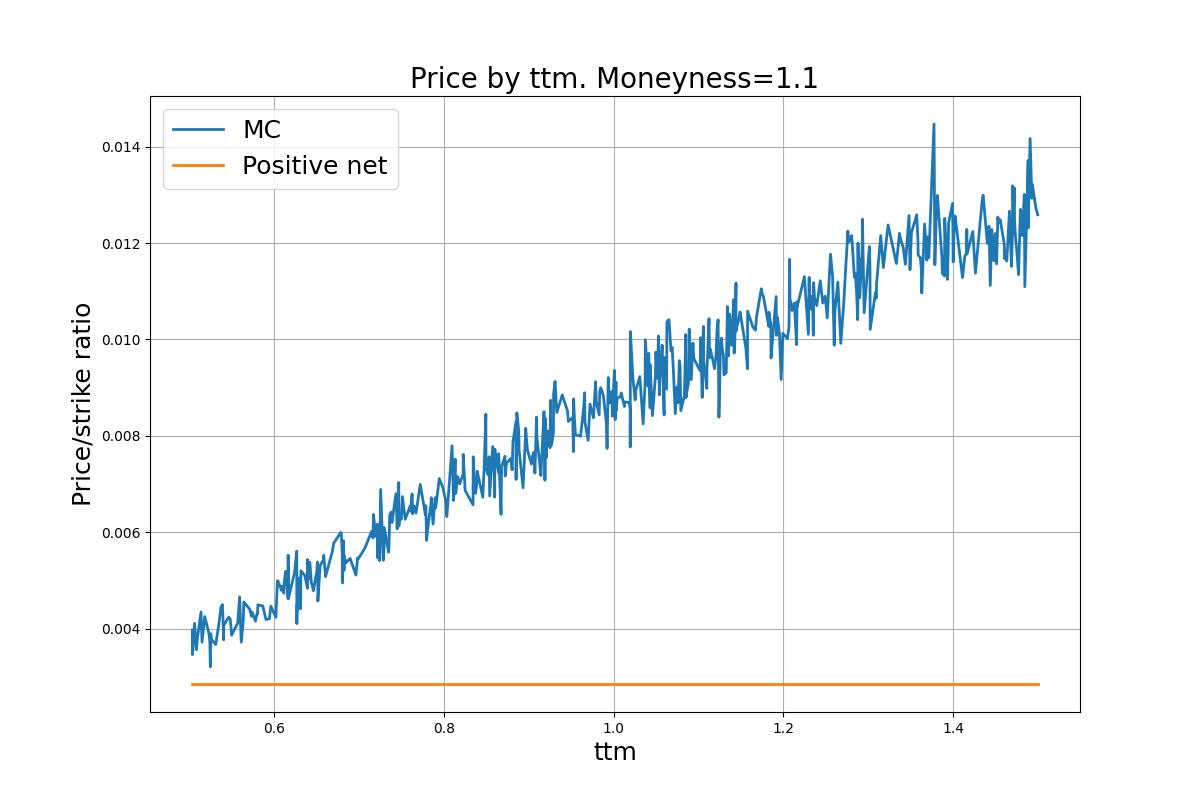
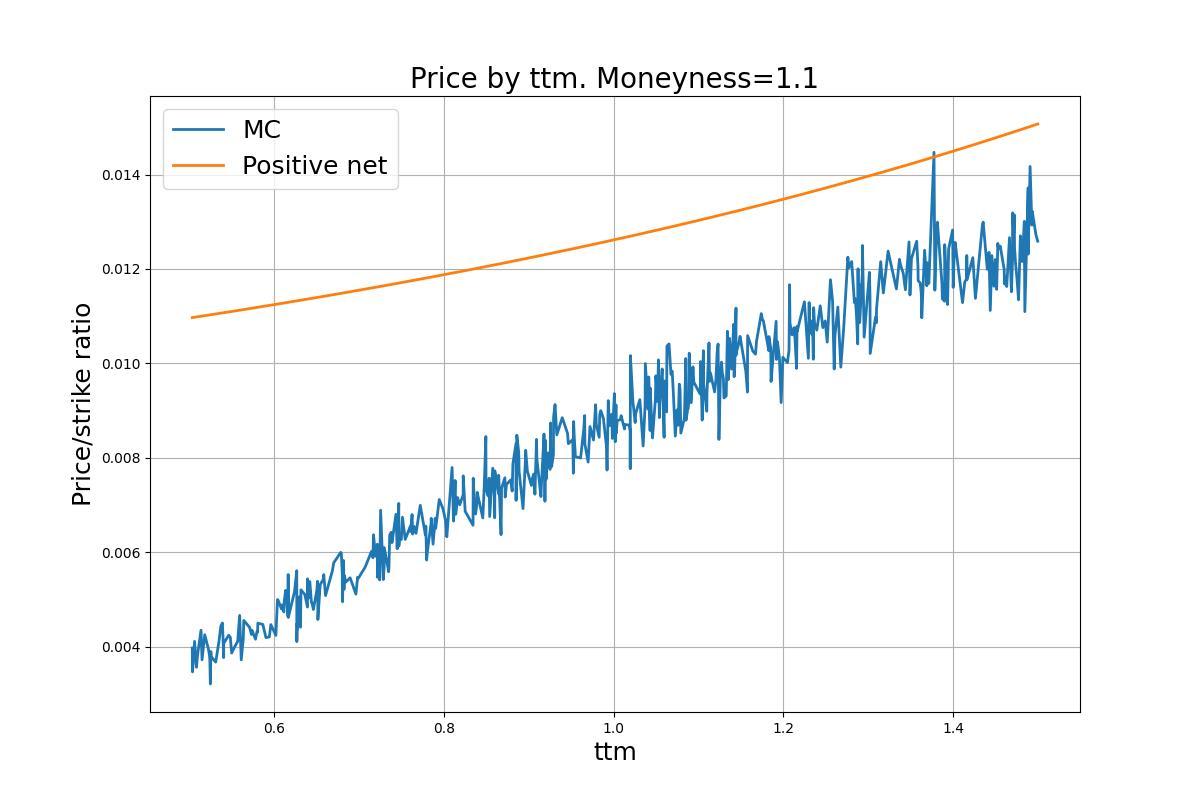
Fix right network, remove encoding for left part

diff --git a/double_net_pricer/pricer.py b/double_net_pricer/pricer.py
@@ -6,7 +6,7 @@ import joblib
 import numpy as np
 import pandas as pd
 
-from double_net_pricer.intrinsic import get_threshold, encode_left, encode_right, decode_left, decode_right, only_special_decode
+from double_net_pricer.intrinsic import get_threshold, encode_right, decode_right, only_special_decode
 from main import make_predicted_df
 from positive_network.network import OptionsNet as PositiveNet
 from semipositive_network.network import OptionsNet as SemiPositiveNet
@@ -17,8 +17,6 @@ IN_FEATURES_NUM = 4
 
 
 # TODO: Use different number of averaging steps for different ttm (not always 365)
-# TODO: Delete avg type
-# Only ARITHMETIC averaging is supported
 
 class DoubleNetPricer:
     def __init__(self, left_net, right_net):
@@ -37,8 +35,6 @@ class DoubleNetPricer:
         left_df, right_df = self._split_for_left_and_right_net_df(df)
         left_val_df, right_val_df = self._split_for_left_and_right_net_df(val_df)
 
-        left_df = encode_left(left_df)
-        left_val_df = encode_left(left_val_df)
         right_df = encode_right(right_df)
         right_val_df = encode_right(right_val_df)
 
@@ -72,7 +68,6 @@ class DoubleNetPricer:
     # Target field: 'price_strike_ratio'
     def predict_split(self, df: pd.DataFrame, no_decode=False):
         left_df, right_df = self._split_for_left_and_right_net_df(df)
-        left_df = encode_left(left_df)
         right_df = encode_right(right_df)
 
         left_df_values = left_df[
@@ -91,7 +86,6 @@ class DoubleNetPricer:
         right_answer_df = make_predicted_df(right_df_values, right_df_target, right_prices, fixed_avg_type=OptionAvgType.ARITHMETIC)
 
         if not no_decode:
-            left_answer_df = decode_left(left_answer_df)
             right_answer_df = decode_right(right_answer_df)
         else:
             right_answer_df = only_special_decode(right_answer_df)
@@ -119,13 +113,14 @@ class DoubleNetPricer:
 
 
 if __name__ == '__main__':
-    # left_model = joblib.load('models/left-2024-02-25 23:36:56.030564.sav')
-    pricer = DoubleNetPricer(None, None)
+    left_model = joblib.load('models/left-2024-02-26 00:32:11.761148.sav')
+    right_model = joblib.load('models/right-2024-02-26 01:56:32.769465.sav')
+    pricer = DoubleNetPricer(left_model, right_model)
 
     train_df = pd.read_csv('../prices_mc_20000_paths_5000.csv')
     test_df = pd.read_csv('../prices_mc_20k_test_paths_1000.csv')
 
-    pricer.fit(train_df, test_df)
+    # pricer.fit(train_df, test_df, which='right')
 
     df_test_left, df_test_right = pricer.predict_split(test_df)
     df_train_left, df_train_right = pricer.predict_split(train_df)

diff --git a/double_net_pricer/intrinsic.py b/double_net_pricer/intrinsic.py
@@ -21,32 +21,14 @@ def _get_intrinsic_value(row) -> float:
 
     return intrinsic_val if intrinsic_val > 0 else 0
 
-
-def encode_left(df: pd.DataFrame) -> pd.DataFrame:
-    df = add_subtracted_intrinsic_value(df)
-    df['price_strike_ratio'] = df['subtracted_int_val']
-    df = df.drop(columns='subtracted_int_val')
-
-    return df
-
-
-def decode_left(df: pd.DataFrame) -> pd.DataFrame:
-    df['int_val'] = df.apply(_get_intrinsic_value, axis=1)
-    df['monte_carlo_price'] = df['monte_carlo_price'] + df['int_val']
-    df['net_price'] = df['net_price'] + df['int_val']
-
-    df = df.drop(columns='int_val')
-
-    return df
-
-
 def encode_right(df: pd.DataFrame) -> pd.DataFrame:
     df = add_subtracted_intrinsic_value(df)
     df['price_strike_ratio'] = df['subtracted_int_val']
     df = df.drop(columns='subtracted_int_val')
 
-    df['spot_strike_ratio'] = 1 / df['spot_strike_ratio']
-    df['risk_free_rate'] = 1 - df['risk_free_rate']
+    # Required to be able to use the network, increasing w.r.t. params
+    df['spot_strike_ratio'] = -df['spot_strike_ratio']
+    df['risk_free_rate'] = -df['risk_free_rate']
 
     return df
 
@@ -57,15 +39,15 @@ def decode_right(df: pd.DataFrame) -> pd.DataFrame:
     df['net_price'] = df['net_price'] + df['int_val']
     df = df.drop(columns='int_val')
 
-    df['spot_strike_ratio'] = 1 / df['spot_strike_ratio']
-    df['risk_free_rate'] = 1 - df['risk_free_rate']
+    df['spot_strike_ratio'] = -df['spot_strike_ratio']
+    df['risk_free_rate'] = -df['risk_free_rate']
 
     return df
 
 
 def only_special_decode(df: pd.DataFrame) -> pd.DataFrame:
-    df['spot_strike_ratio'] = 1 / df['spot_strike_ratio']
-    df['risk_free_rate'] = 1 - df['risk_free_rate']
+    df['spot_strike_ratio'] = -df['spot_strike_ratio']
+    df['risk_free_rate'] = -df['risk_free_rate']
 
     return df
 

diff --git a/semipositive_network/network.py b/semipositive_network/network.py
@@ -16,9 +16,7 @@ class OptionsNet:
         self.net = nn.Sequential(
             LinearSemiPositive(in_features, 256),
             nn.Sigmoid(),
-            LinearSemiPositive(256, 32),
-            nn.Sigmoid(),
-            LinearBiasPositive(32, 1)
+            LinearBiasPositive(256, 1)
         )
         self.criterion = nn.MSELoss()
         self.optim = torch.optim.Adam(self.net.parameters(), lr=3e-4, betas=(0.9, 0.999), eps=1e-8)

diff --git a/double_net_pricer/graphs.py b/double_net_pricer/graphs.py
@@ -34,7 +34,7 @@ def create_convexity_plots(pricer: DoubleNetPricer):
 
 if __name__ == '__main__':
     left_model = joblib.load('models/left-2024-02-26 00:32:11.761148.sav')
-    right_model = joblib.load('models/right-2024-02-26 00:38:43.414567.sav')
+    right_model = joblib.load('models/right-2024-02-26 01:56:32.769465.sav')
     pricer = DoubleNetPricer(left_model, right_model)
 
     create_convexity_plots(pricer)
